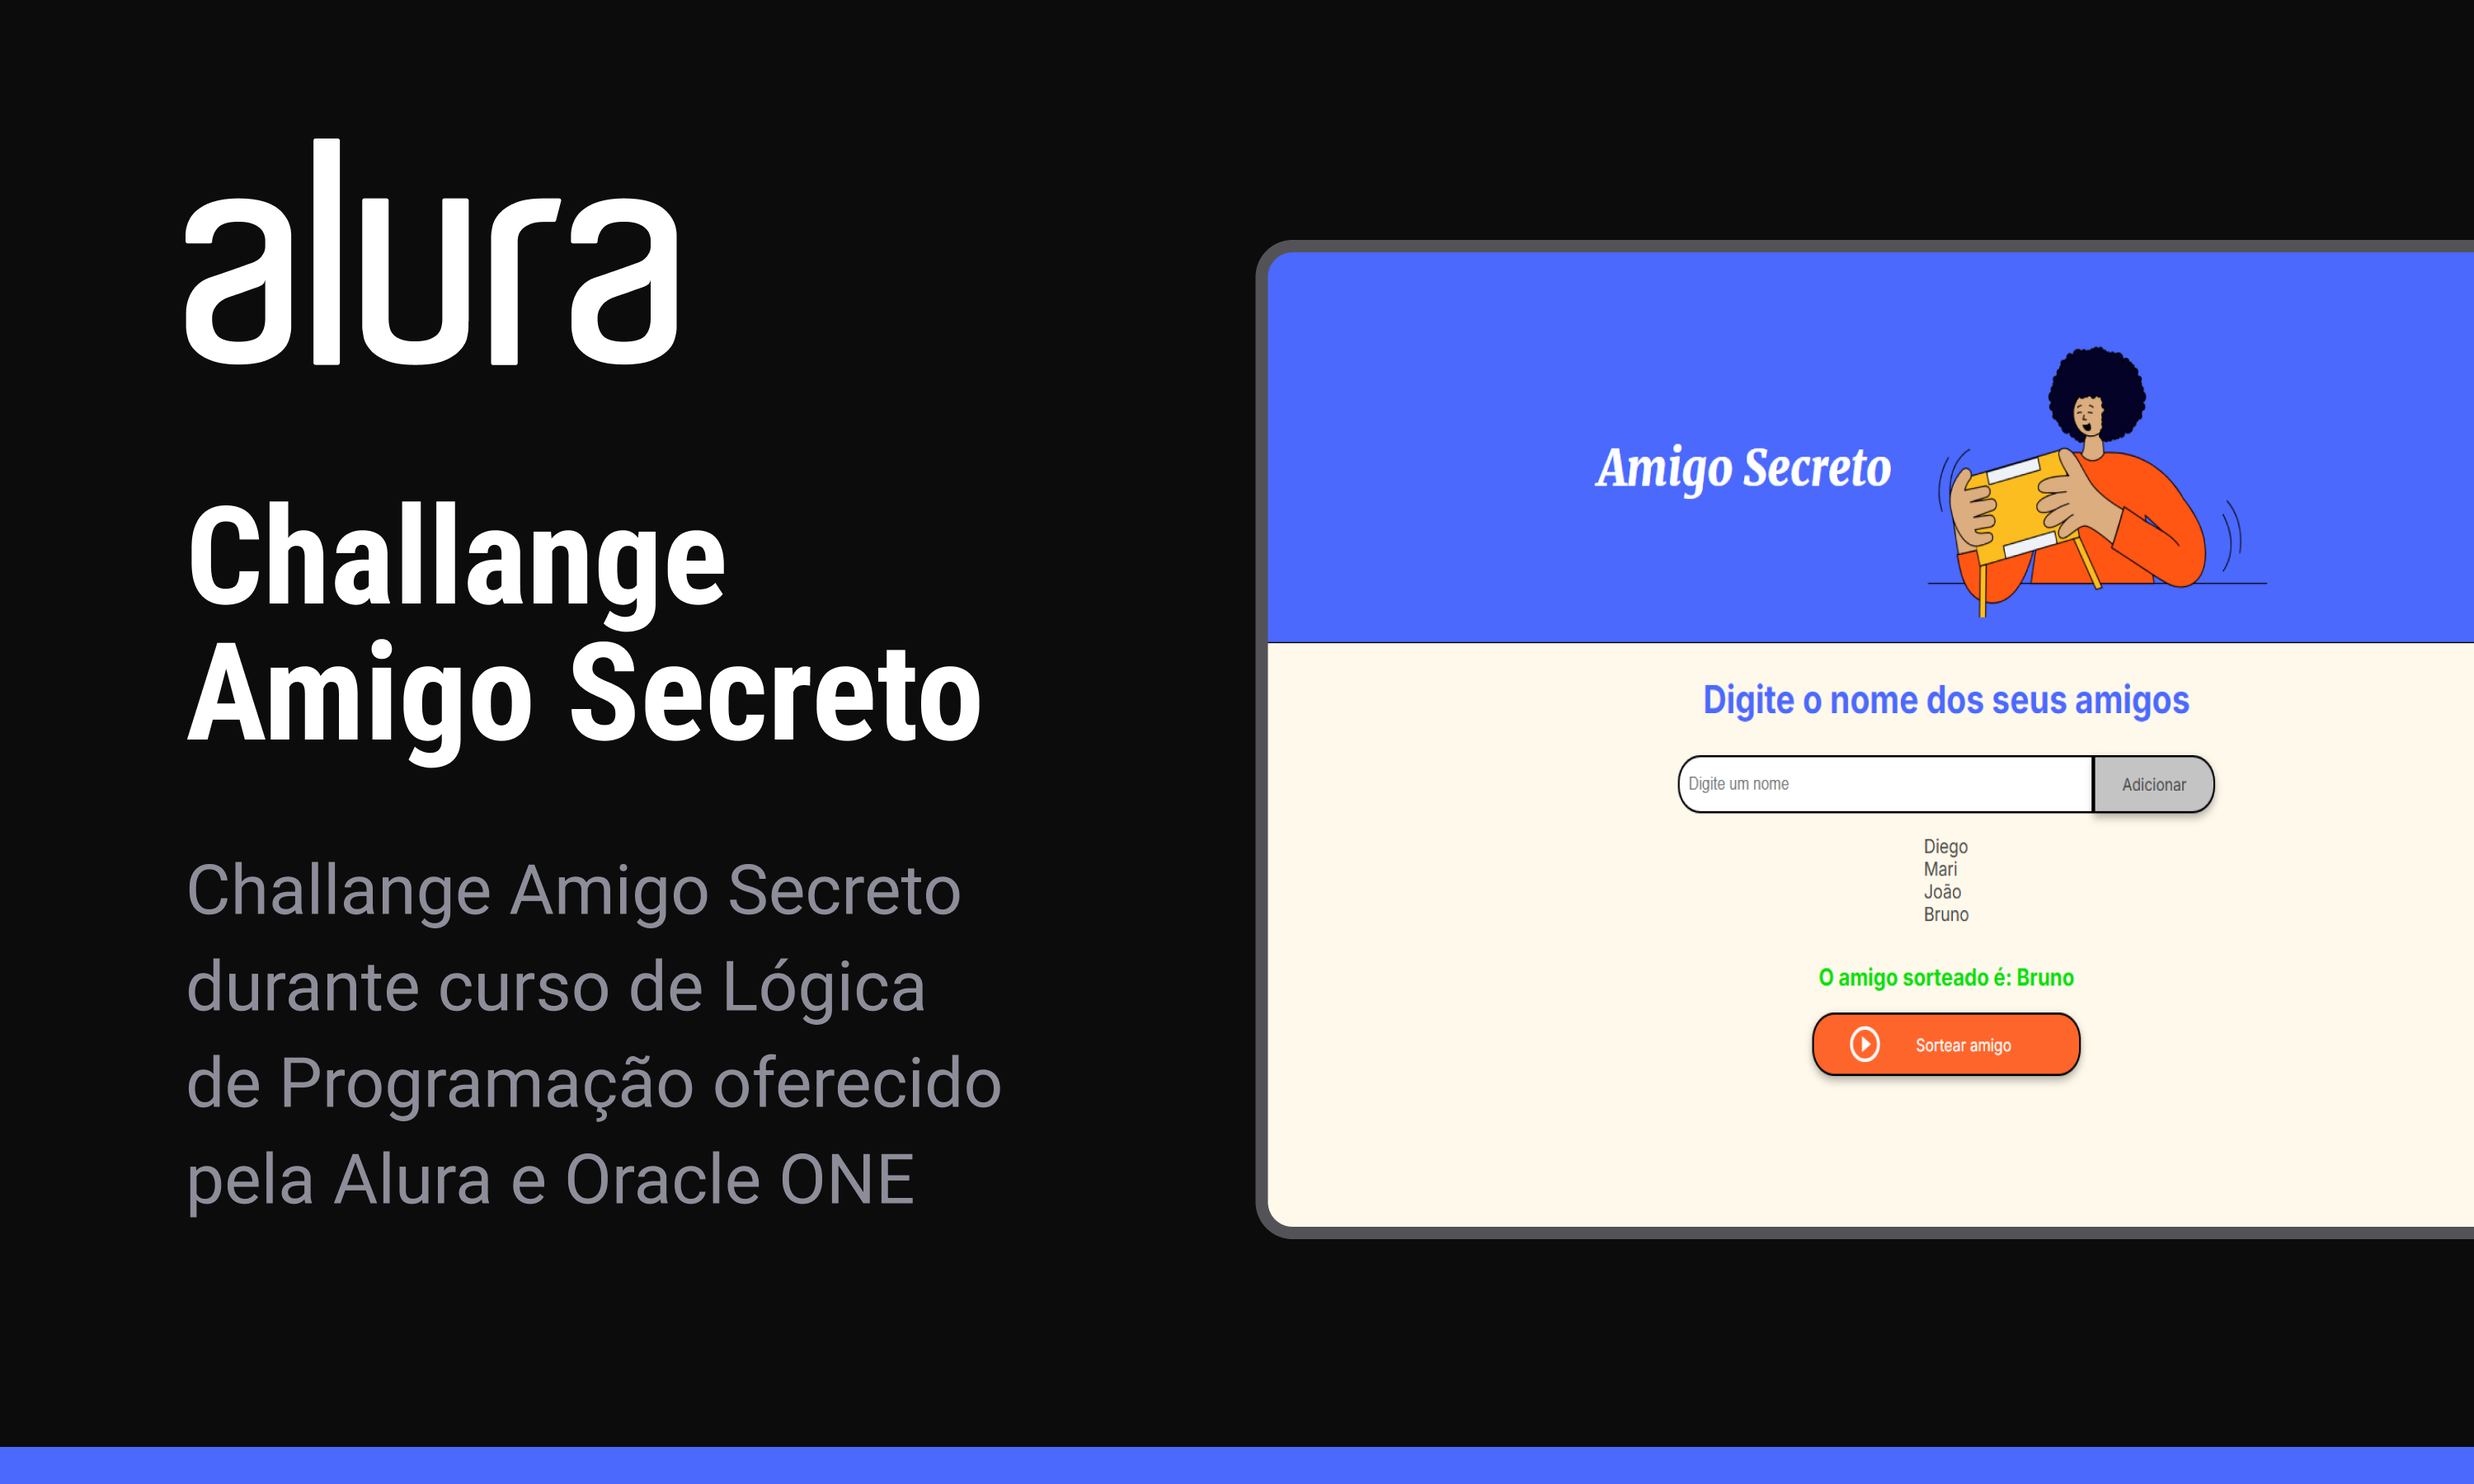
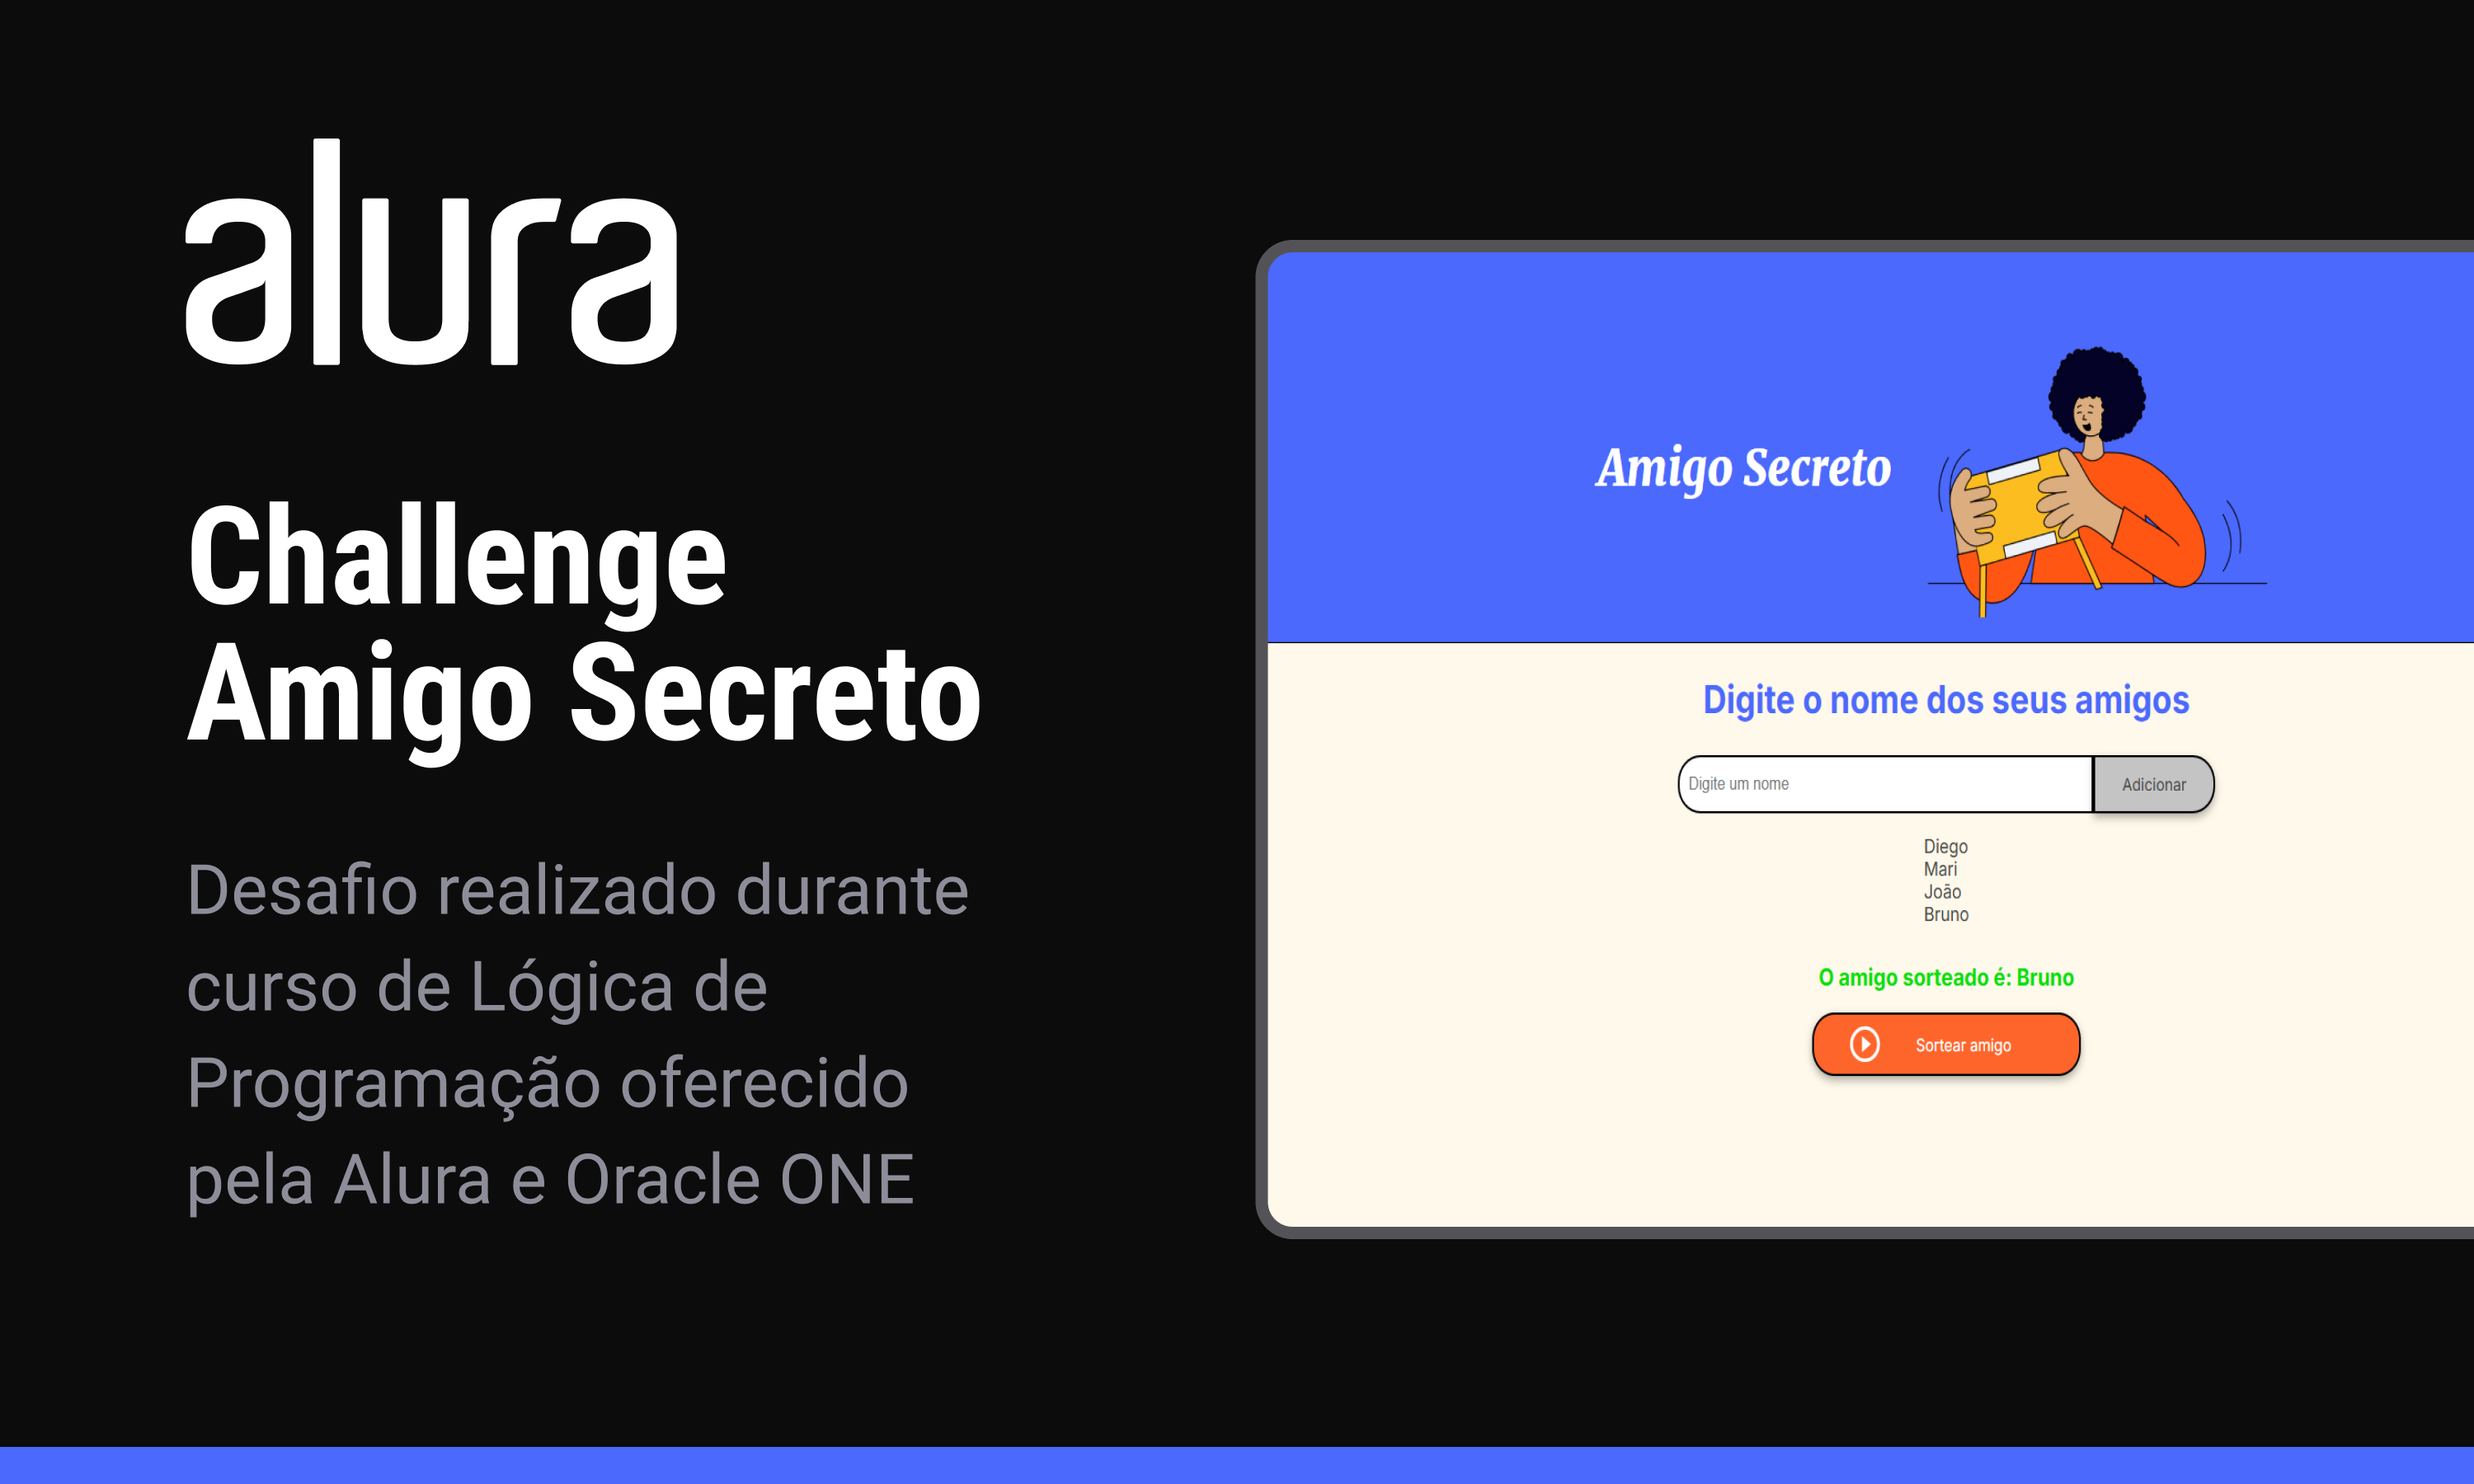
update

diff --git a/README.md b/README.md
@@ -1,4 +1,4 @@
-<h1 align="center">Challange - Amigo Secreto</h1>
+<h1 align="center">Challenge - Amigo Secreto</h1>
 
 <p align="center">
 Desafio proposto durante curso de Lógica de Programação oferecido pela Alura em parceria com Oracle ONE.
